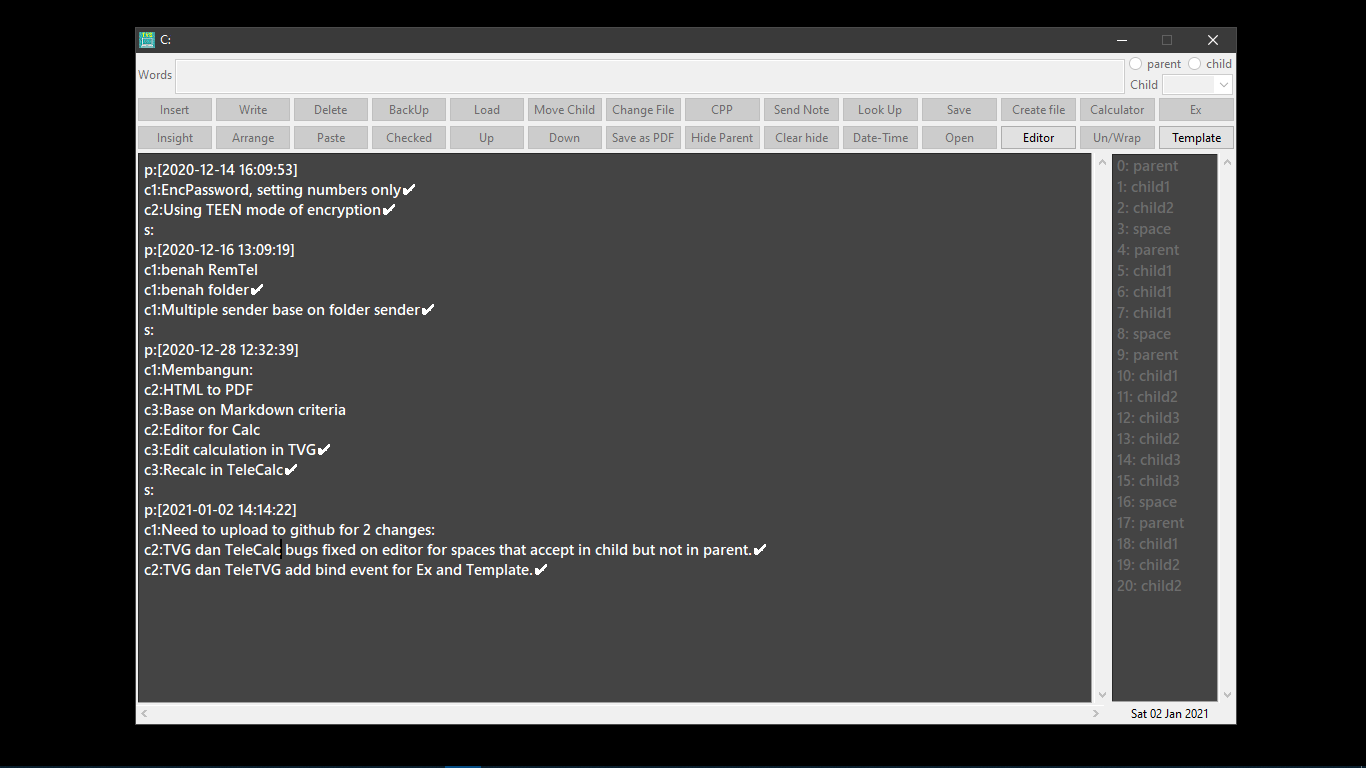
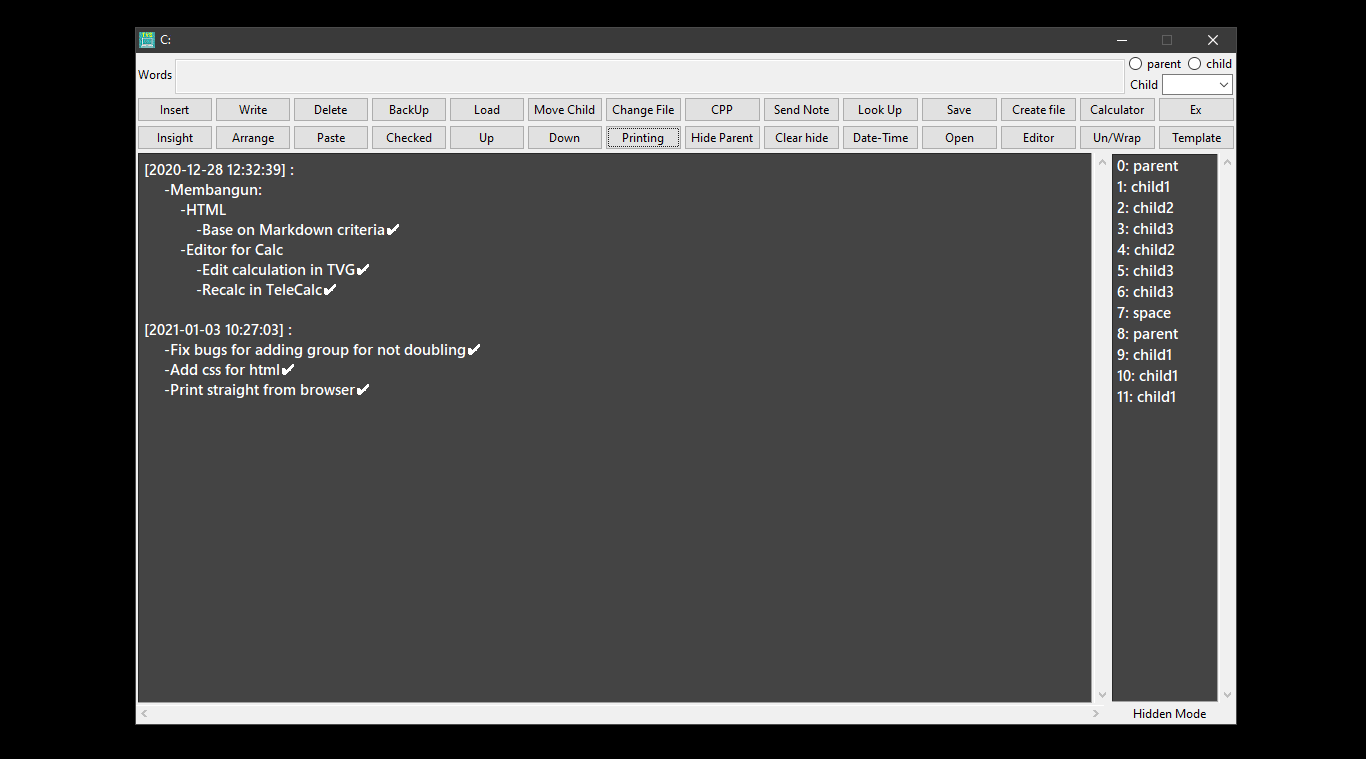
❤Fix bugs and some changes
- Change [save to pdf] to [Printing].

Changed region(s): [[0.0922, 0.0606, 0.9224, 0.7879], [0.0922, 0.9091, 0.9224, 0.9697], [0.0922, 0.0303, 0.123, 0.0606]]

diff --git a/Codes/TVG.py b/Codes/TVG.py
@@ -12,6 +12,7 @@ import TeleCalc
 import TeleTVG
 import re
 from FileFind import filen
+from mdh import convhtml
 from datetime import datetime as dt
 
 class TreeViewGui:
@@ -182,7 +183,7 @@ class TreeViewGui:
         self.button2 = ttk.Button(self.frb1, text = 'Down', command = self.movedown)
         self.button2.pack(side = LEFT, pady = (0, 3), padx = 1, fill = 'x', expand = 1)
         self.bt['button2'] = self.button2
-        self.button12 = ttk.Button(self.frb1, text = 'Save as PDF', command = self.saveaspdf)
+        self.button12 = ttk.Button(self.frb1, text = 'Printing', command = self.saveaspdf)
         self.button12.pack(side = LEFT, pady = (0, 3), padx = 1, fill = 'x', expand = 1)
         self.bt['button12'] = self.button12
         self.button14 = ttk.Button(self.frb1, text = 'Hide Parent', command = self.hiddenchl)
@@ -1001,94 +1002,14 @@ class TreeViewGui:
                     self.infobar()
                     
     def saveaspdf(self):
-        # Saving records to a pdf.
-        
-        from CreatePDF import Pydf
+        # Show to browser and directly print as pdf or direct printing.
         
         if self.checkfile():
-            
-            def chosen(file):
-                gch = file
-                fildir = filedialog.askdirectory()
-                TreeViewGui.FREEZE = False
-                try:
-                    if fildir:
-                        ori = os.getcwd()
-                        if f'{self.filename}_hid.json' in os.listdir():
-                            ans = messagebox.askyesno('TreeViewGui', 'Do you want print the hidden parents?')
-                            if ans:
-                                self.hidform()
-                                os.chdir(fildir)
-                                showt = self.text.get('1.0', END)[:-2]
-                                self.root.clipboard_append(showt)
-                                pdf = Pydf(f'{self.filename}')
-                                ppath = f"c:\\WINDOWS\\Fonts\\{gch}.ttf"
-                                pdf.add_font(f'{gch}', '', ppath, uni=True)
-                                pdf.alias_nb_pages()
-                                pdf.add_page() 
-                                pdf.set_font(f'{gch}', '', 10) 
-                                pdf.multi_cell(0, 5, showt) 
-                                pdf.output(pdf.filename, 'F')
-                                messagebox.showinfo('Save as PDF', f'{self.filename}.pdf is created!')
-                            else:
-                                with open(f'{self.filename}.txt') as file:
-                                    frd = file.read()
-                                    self.root.clipboard_append(frd)
-                                    os.chdir(fildir)
-                                    pdf = Pydf(f'{self.filename}')
-                                    ppath = f"c:\\WINDOWS\\Fonts\\{gch}.ttf"
-                                    pdf.add_font(f'{gch}', '', ppath, uni=True)
-                                    pdf.alias_nb_pages()
-                                    pdf.add_page() 
-                                    pdf.set_font(f'{gch}', '', 10) 
-                                    pdf.multi_cell(0, 5, frd) 
-                                    pdf.output(pdf.filename, 'F')
-                                messagebox.showinfo('Save as PDF', f'{self.filename}.pdf is created!')
-                        else:
-                            with open(f'{self.filename}.txt') as file:
-                                frd = file.read()
-                                self.root.clipboard_append(frd)
-                                os.chdir(fildir)
-                                pdf = Pydf(f'{self.filename}')
-                                ppath = f"c:\\WINDOWS\\Fonts\\{gch}.ttf"
-                                pdf.add_font(f'{gch}', '', ppath, uni=True)
-                                pdf.alias_nb_pages()
-                                pdf.add_page() 
-                                pdf.set_font(f'{gch}', '', 10)
-                                pdf.multi_cell(0, 5, frd)
-                                pdf.output(pdf.filename, 'F')
-                            messagebox.showinfo('Save as PDF', f'{self.filename}.pdf is created!')
-                        os.chdir(ori)
-                    else:
-                        messagebox.showinfo('Save as PDF', 'Please choose a directory first!')
-                except:
-                    messagebox.showinfo('Save as PDF', f'{sys.exc_info()}')
-                        
-            if self.lock is False:
-                TreeViewGui.FREEZE = True        
-                self.lock = True
-                files = [i.rpartition('.')[0] for i in os.listdir(r'c:\WINDOWS\Fonts') if '.ttf' in i]
-                class MyDialog(simpledialog.Dialog):
+            if f'{self.filename}_hid.json' in os.listdir():
+                convhtml(self.text.get('1.0', END)[:-1], f'{self.filename}')
+            else:
+                convhtml(f'{self.filename}.txt', f'{self.filename}')
                 
-                    def body(self, master):
-                        self.title('Choose Font')
-                        Label(master, text="Font: ").grid(row=0, column = 0, sticky = E)
-                        self.e1 = ttk.Combobox(master, state = 'readonly')
-                        self.e1['values'] = files
-                        self.e1.current(0)
-                        self.e1.grid(row=0, column=1)
-                        return self.e1
-                
-                    def apply(self):
-                        self.result = self.e1.get()
-                                    
-                d = MyDialog(self.root)
-                self.lock = False
-                if d.result:            
-                    chosen(d.result)
-                else:
-                    TreeViewGui.FREEZE = False
-                    
     def spaces(self):
         # Mostly used by other functions to clear an obselete spaces.
         # To appropriate the display better.

diff --git a/Codes/mdh.py b/Codes/mdh.py
@@ -1,0 +1,60 @@
+import markdown
+import os
+import re
+
+def convhtml(text: str, filename: str):
+    # Converting your TVG to html and printable directly from browser.
+    
+    try:
+        if os.path.isfile(text):
+            with open(text) as rdf:
+                gettext = rdf.readlines()
+        else:
+            gettext = text.split('\n')
+            
+        tohtml = []
+        for i in gettext:
+            if i != '\n':
+                sp = re.match(r'\s+', i)
+                if sp:
+                    sp = sp.span()[1]-4
+                    txt = re.search(r'-', i)
+                    if txt:
+                        txt = f'* **{i[txt.span()[1]:]}**'
+                    else:
+                        txt = '*  '
+                    tohtml.append(f'{" " * sp}{txt}\n\n')
+                else:
+                    if '\n' in i:
+                        tohtml.append(f'### {i}\n')
+                    else:
+                        tohtml.append(f'### {i}\n\n')
+        chg = f"""{''.join(tohtml)}"""
+        
+        a = markdown.markdown(chg)
+        cssstyle = """<!DOCTYPE html>
+<html>
+<style>
+body {
+  background-color: gold;
+  font-family: 'Trebuchet MS', sans-serif;
+}
+@media print {
+.button { display: none }
+}
+</style>
+<body>
+<button class="button"  onclick="javascript:window.print();">Print this page</button>
+
+"""
+        nxt = f"""{a}
+
+</body>
+</html>
+"""
+        cssstyle = cssstyle + nxt
+        with open(f'{filename}.html', 'w') as whtm:
+            whtm.write(cssstyle)
+        os.startfile(f'{filename}.html')
+    except Exception as e:
+        raise e

diff --git a/Codes/TeleTVG/TeleTVG.py b/Codes/TeleTVG/TeleTVG.py
@@ -528,7 +528,9 @@ class Reminder:
                         with open(os.path.join(mfold,f'{d.folder}.json')) as fs:
                             rd = dict(json.load(fs))
                             ou = rd[d.folder]
-                            ou.extend(d.result)
+                            for u in d.result:
+                                if u not in ou:
+                                    ou.append(u)
                             rd[d.folder] = ou
                         with open(os.path.join(mfold,f'{d.folder}.json'), 'w') as wj:
                             json.dump(rd, wj)   

diff --git a/README.md b/README.md
@@ -1,8 +1,6 @@
 # TVG
 >## TreeViewGui
 * **TVG is an outline note for viewing in tree structure.**
-* **Can be save as PDF to a user preferred directory.**
-* **To use the PDF function user must download PyFPDF. [https://github.com/reingart/pyfpdf]**
 * **Please give feedback if there is known error by creating issues.**
 
 **Note: Block using '#' in the code on icon, because not provided in the repository**
@@ -96,9 +94,15 @@
         * **Template for saving frequently used format of outlines.**
             * **You can load them for applying the template on the editor mode.**
             * **Template can help you to forget about retyping same format again-and-again.**
+        * **~~Save as pdf~~ is replace with <u>Printing</u>.**
+            * **Convert TVG file to HTML and open in browser.**
+              >**Please get markdown first for Printing to work https://github.com/Python-Markdown/markdown.**
+            * **Just click the print button and save to pdf or print direct to a printer.**
 * **And many more.. :joy:**
                 
 ![TVG](/TVG.png)
+![TVG2](/TVG3.png)
+![TVG2](/TVG4.png)
 ![TVG2](/TVG2.png)
 ![TVG1](/TVG1.png)
 ![TeleTVG](/TeleTVG.png)
